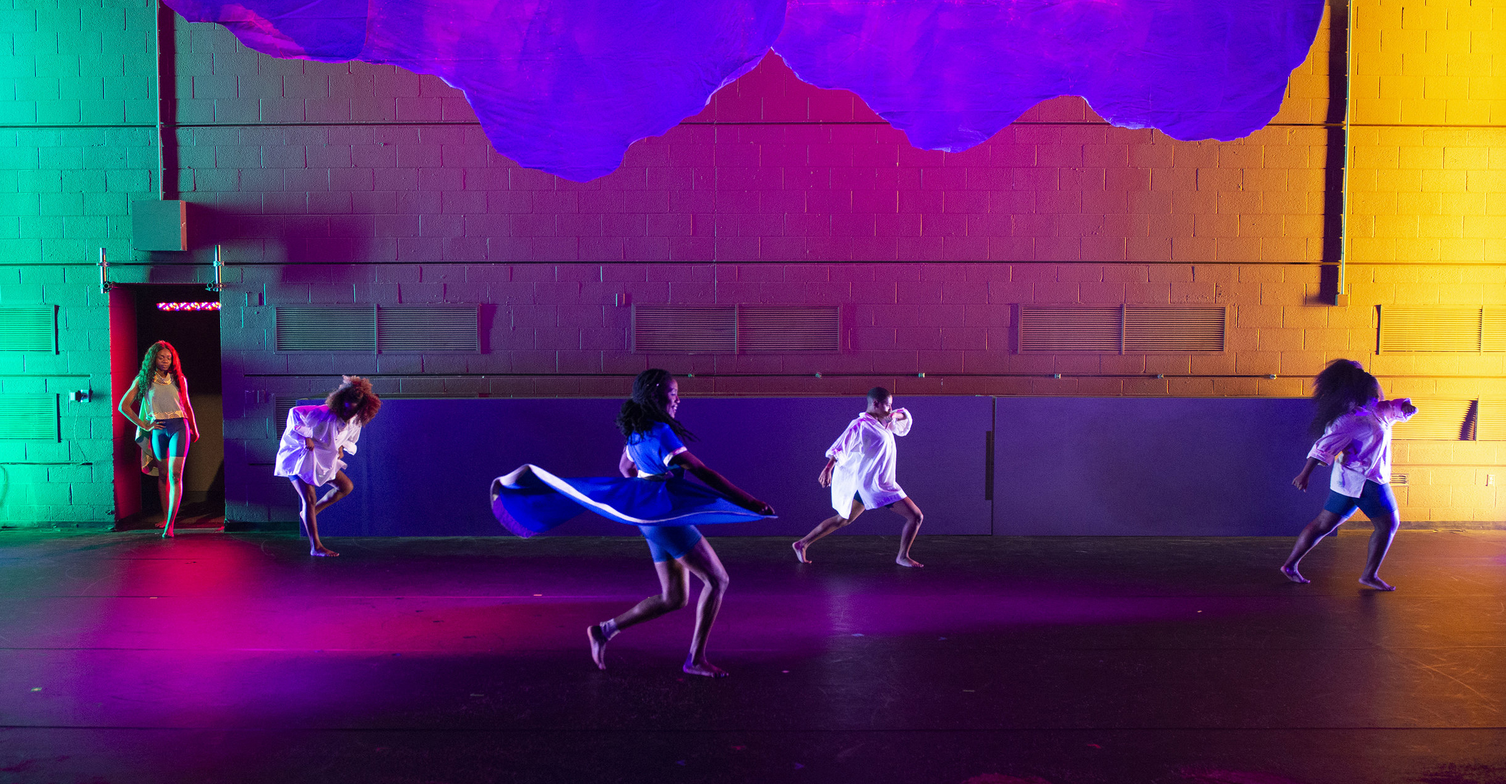
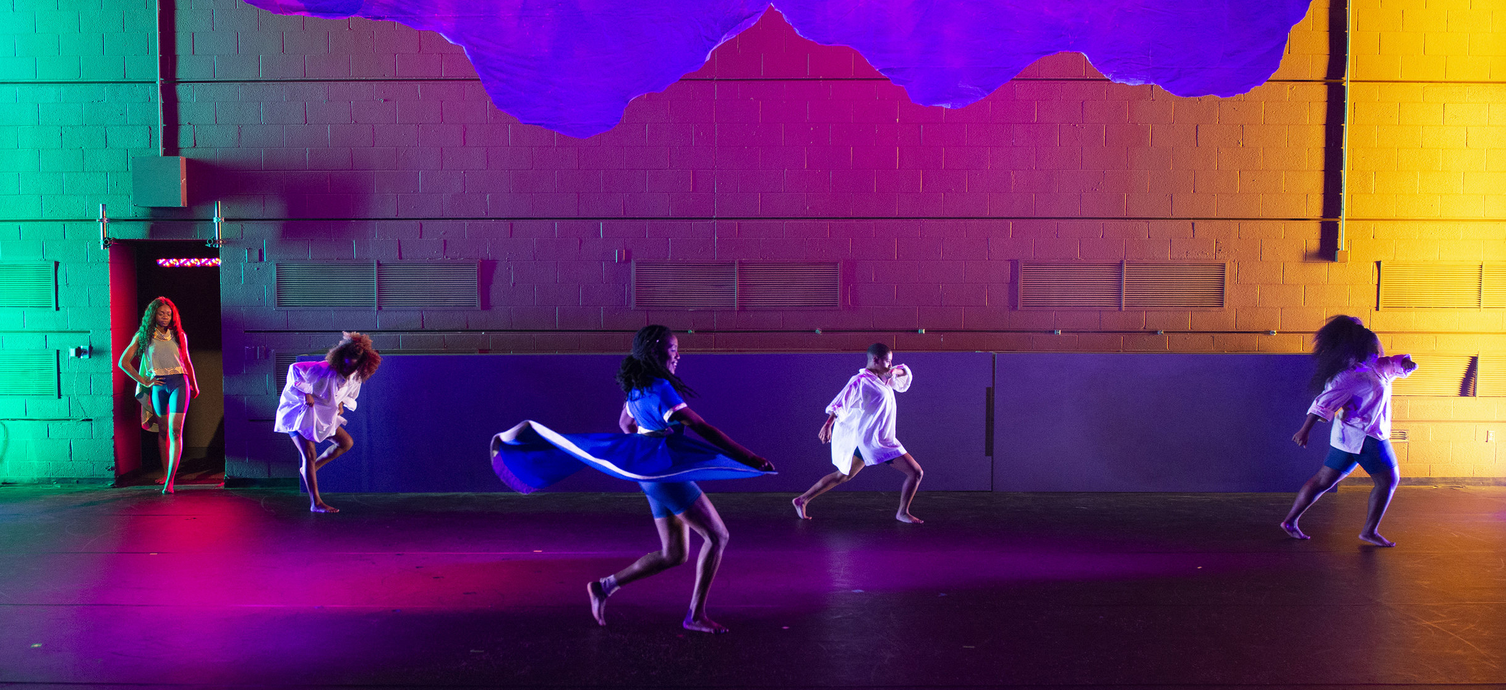
Monday night resume work

diff --git a/resume-project/index.html b/resume-project/index.html
@@ -11,52 +11,43 @@
       <!-- Meta tags that are helpful for search engines -->
       <meta name="David Andrews Resume" content="Merrill College of Journalism, UMD">
       <meta name="David Andrews" content="Photographer Resume">
-    <link href="./style.css" rel="stylesheet">
     <!-- The following link ref for fonts is a hold over from the in-class resume -->
     <link href="https://fonts.googleapis.com/css?family=Open+Sans:400,700&display=swap" rel="stylesheet">
     <link rel="stylesheet" href="https://stackpath.bootstrapcdn.com/bootstrap/4.3.1/css/bootstrap.min.css" integrity="sha384-ggOyR0iXCbMQv3Xipma34MD+dH/1fQ784/j6cY/iJTQUOhcWr7x9JvoRxT2MZw1T" crossorigin="anonymous">
     <link rel="stylesheet" href="https://use.fontawesome.com/releases/v5.7.2/css/all.css" integrity="sha384-fnmOCqbTlWIlj8LyTjo7mOUStjsKC4pOpQbqyi7RrhN7udi9RwhKkMHpvLbHG9Sr" crossorigin="anonymous">
+    <link href="./style.css" rel="stylesheet">
   </head>
   <body>
     <!--Beginning of Nav bar-->
+    <div class="navigationbar">
         <nav class="navbar navbar-expand-lg navbar-light bg-light">
-     <a class="navbar-brand" href="#">Navbar</a>
+     <a class="navbar-brand" href="#">David Andrews</a>
      <button class="navbar-toggler" type="button" data-toggle="collapse" data-target="#navbarSupportedContent" aria-controls="navbarSupportedContent" aria-expanded="false" aria-label="Toggle navigation">
        <span class="navbar-toggler-icon"></span>
      </button>
 
      <div class="collapse navbar-collapse" id="navbarSupportedContent">
        <ul class="navbar-nav mr-auto">
-         <li class="nav-item active">
-           <a class="nav-link" href="#">David Andrews <span class="sr-only">(current)</span></a>
-         </li>
          <li class="nav-item">
            <a class="nav-link" href="#experience">Experience</a>
          </li>
          <li class="nav-item">
-           <a class="nav-link" href="#">Skills</a>
+           <a class="nav-link" href="#skills">Skills</a>
          </li>
          <li class="nav-item">
-           <a class="nav-link" href="#">Services</a>
+           <a class="nav-link" href="#services">Services</a>
          </li>
-         <li class="nav-item dropdown">
-           <a class="nav-link dropdown-toggle" href="#" id="navbarDropdown" role="button" data-toggle="dropdown" aria-haspopup="true" aria-expanded="false">
-             Contact
-           </a>
-           <div class="dropdown-menu" aria-labelledby="navbarDropdown">
-             <div class="dropdown-divider"></div>
-             <a class="dropdown-item" href="#">Email</a>
-             <a class="dropdown-item" href="#">LinkedIn</a>
-             <a class="dropdown-item" href="#">Instagram</a>
-           </div>
+         <li class="nav-item">
+           <a class="nav-link" href="mailto:@dlamedia100@gmail.com">Contact</a>
          </li>
        </ul>
      </div>
     </nav>
+  </div>
     <!--End of Nav bar-->
-
+  <div id="body">
+    <!-- Beginning of body content -->
     <div id="container">
-      <!-- I built this myself! -->
       <i class="fas fa-camera fa-sm"></i>
       <i class="fas fa-camera fa-lg"></i>
       <i class="fas fa-camera fa-2x"></i>
@@ -69,104 +60,180 @@
     <div id="name">David Andrews</div>
     <div id="title">Photo/Video Producer</div>
   </div>
+</div>
+<img src="davidandrews-banner-1600x500.jpg" alt="dancers" class="image">
+<br>
+<br>
+<div id="container">
+</div>
+<div class="section-header" id="experience">
+  <!-- h2 to class="section-header" -->
+  Experience
+</div>
+<div id="body">
+  <br>
+<!--Beginning of Maryland item -->
+  <div class="container">
+        <div class="row">
+                <div class="col-md-6 box">
+                        <h3>University of Maryland</h3>
+                        <div class="date">
+                          January 2019–Current
+                        </div>
+                        <br>
+                        <img src="./logos/umd-globe.png" alt="maryland logo" class="logo">
+                </div>
+                <div class="col-md-6">
+                  <div class="job-title">
+                    Photographer and Video Producer
+                  </div>
+                  <p class="description">
+                    I photograph performances for the University's School of Music, School of Theatre, Dance, and Performance Studies, and the Visiting Artist Series. I also film and produce recruitment and marketing videos for various center partners, while directing lighting and managing scheduling for photoshoots, portraits and headshots. I also develop department video strategy in line with University branding. I am continually strategizing content production needs based on social media trends.
+                  </p>
+                </div>
+        </div>
+</div>
+<br>
+<!--End of Maryland item-->
+<!--Beginning of LIGHT item -->
+  <div class="container">
+        <div class="row">
+                <div class="col-md-6 box">
+                        <h3>Light Labs, Inc.</h3>
+                        <div class="date">
+                          January 2018–September 2018
+                        </div>
+                        <br>
+                        <img src="./logos/light-logo.png" alt="light logo" class="logo">
+                </div>
+                <div class="col-md-6">
+                  <div class="job-title">
+                    Customer Support Specialist, Videographer
+                  </div>
+                  <p class="description">
+                    As the videographer, I developed company video strategy for support and marketing teams, and shot and produced video ad campaigns for various social platforms. I also created instructional tutorial videos to proactively troubleshoot camera support issues. As a customer support specialist, I led customers in best troubleshooting procedures with L16 camera and Lumen editing software, diagnosed problematic images and relayed critical software bugs to developers.
+                  </p>
+                </div>
+        </div>
+</div>
+<br>
+<!--End of LIGHT item-->
+<!--Beginning of SF freelancer item -->
+  <div class="container">
+        <div class="row">
+                <div class="col-md-6 box">
+                        <h3>Various publications around
+                          <br>
+                          San Francisco, Ca.</h3>
+                        <div class="date">
+                          May 2016-September 2018
+                        </div>
+                        <br>
+                        <img src="./logos/sf-weekly-logo.jpg" alt="sf weekly logo" class="logo">
+                </div>
+                <div class="col-md-6">
+                  <div class="job-title">
+                    Video, photo and print journalist
+                  </div>
+                  <p class="description">
+                    PUBLISHED by San Francisco Chronicle, SF Weekly, The Bold Italic, Ripple News, Hoodline, San Francisco, Ca., Catholic San Francisco, The Archdiocese of San Francisco, SF Bay, and The American Legion. As a freelancer, I researched and pitched ideas for compelling videos and articles regarding relevant current events, interviewed subjects on camera with attention to audio, lighting and visuals and arranged interviews into video packages or articles in regards to each publication’s style guide with minimal oversight in a timely manner. Additionally, I photographed events around the city while gathering information to create complete captions for publication.
+                  </p>
+                </div>
+        </div>
+</div>
+<br>
+<!--End of SF FREELANCER item-->
+<!--Beginning of AMPS item -->
+<div class="container">
+        <div class="row">
+                <div class="col-md-6 box">
+                        <h3>Advertising Media Plus, Inc.</h3>
+                        <div class="date">
+                          April 2014-April 2016
+                        </div>
+                        <br>
+                        <img src="./logos/advertisingmediaplus.jpeg" alt="advertising media plus logo" class="logo">
+                </div>
+                <div class="col-md-6">
+                  <div class="job-title">
+                    Videographer, Reporter
+                  </div>
+                  <p class="description">
+                    In my first full-time job after graduating, I filmed, edited and produced videos for various client websites with oversight in lighting and audio. I photographed events and conducted interviews for articles to be published in two tri-annual magazines. I helped to design highly stylized graphic layouts for digital email promotions through Constant Contact, pitched company business to potential clients, offering full comprehension of company services and managed client account website CMS update through WordPress with attention to SEO.
+                  </p>
+                </div>
+        </div>
+</div>
+<br>
+<!--End of AMPS item-->
+<!--Beginning of Balt Sun item -->
+<div class="container">
+        <div class="row">
+                <div class="col-md-6 box">
+                        <h3>The Baltimore Sun</h3>
+                        <div class="date">
+                          August 2014-April 2016
+                        </div>
+                        <br>
+                        <img src="./logos/baltimore-sun-logo.jpg" alt="baltimore sun logo" class="logo">
+                </div>
+                <div class="col-md-6">
+                  <div class="job-title">
+                    Freelance Photographer
+                  </div>
+                  <p class="description">
+                    As a freelancer for the Baltimore Sun, I pitched, developed, shot, edited and wrote independent feature multimedia story ideas that were published on BaltimoreSun.com. I photographed both candid and posed occupants of Baltimore bars to accompany nightlife review articles. I also interviewed subjects to obtain critical information to create accurate and thorough captions. When I edited photos, I cropped and minimally tweaked 20-30 best stills from shoots without compromising image integrity.
+                  </p>
+                </div>
+        </div>
+</div>
+<br>
+<!--End of Balt Sun item-->
+<!--Beginning of LSS item -->
+<div class="container">
+        <div class="row">
+                <div class="col-md-6 box">
+                        <h3>Long Story Short Media</h3>
+                        <div class="date">
+                          February-May 2014
+                        </div>
+                        <br>
+                        <img src="./logos/lss-media-logo.png" alt="long story short media" class="logo">
+                </div>
+                <div class="col-md-6">
+                  <div class="job-title">
+                    Production Intern
+                  </div>
+                  <p class="description">
+                    As a production intern, I produced videos in Adobe Premiere to be distributed to clients and published on LSSMedia.com, Youtube, Vimeo and WordPress. I recorded talent voice-overs and compiled music to be used in final video productions, transcribed interviews and logged footage in CATDV with complete and accurate time codes, keywords and subject names. I assisted with live stream recording and on-location production, and created call sheets and production notes to be used on location and distributed to clients.
+                  </p>
+                </div>
+        </div>
+</div>
+<br>
+<!--End of LSSMedia item-->
 
-    <!-- Beginning of Jumbotron -->
-    <div class="jumbotron">
-    <!--BACKGROUND IMAGE NOT SHOWING -->
-    <hr class="my-4">
-    <p>Humanity through the looking glass.</p>
-    <!-- "Learn More" button -->
-    <a class="btn btn-primary btn-lg" href="#" role="button">Portfolio</a>
-    </div>
-    <!-- End of Jumbotron -->
+<!--Beginning of NEXT item -->
+<!--  <div class="container">
+        <div class="row">
+                <div class="col-md-6">
+                        <h3>PLACE OF WORK</h3>
+                        <div class="date">
+                          Month YEAR–Month YEAR
+                        </div>
+                </div>
+                <div class="col-md-6">
+                  <div class="job-title">
+                    Customer Support Specialist, Videographer
+                  </div>
+                  <p class="description">
+                    This is what I did at this job. yadda yadda yadda
+                  </p>
+                </div>
+        </div>
+</div>
+<!--End of that item-->
 
-  <!-- <img src="daveandrews-headshot-350.jpg" width="300" height="300" alt="David Andrews headshot" /> -->
-  <ul class="menu">
-    <li><a href="mailto:dandrews@umd.edu">dandrews@umd.edu</a><li>
-    <li><a href="https://www.linkedin.com/in/dandrewsphotography">LinkedIn</a></li>
-    <li><a href="https://twitter.com/DAndimonium">Twitter</a></li>
-    <li><a href="https://github.com/dandrewsphoto">GitHub</a></li>
-  </ul>
-  <p class="mission-statement">
-    <!--changed this to mission-statement in a later iteration -->
-    I am the photographer photographer and video producer at The Clarice Smith Performing Arts Center at the University of Maryland. With a background in journalism, I've been a freelance photojournalist for various editorial publications in Baltimore, Md. and most recently in San Francisco, Ca. I've also worked in customer service, and as a video producer for a digital photography start up organization.
-  </p>
-    <div class="section-header" id="experience">
-      <!-- h2 to class="section-header" -->
-      Experience
-    </div>
-    <div class="job-title">
-      Photographer and Video Producer
-    </div>
-    <div class="organization">
-      University of Maryland—Clarice Smith Performing Arts Center
-    </div>
-    <div class="date">
-      January 2019–Current
-    </div>
-    <p class="description">
-      I photograph performances for the University's School of Music, School of Theatre, Dance, and Performance Studies, and the Visiting Artist Series. I also film and produce recruitment and marketing videos for various center partners, while directing lighting and managing scheduling for photoshoots, portraits and headshots. I also develop department video strategy in line with University branding. I am continually strategizing content production needs based on social media trends.
-    </p>
-    <div class="job-title">
-      Contract Customer Support Specialist, Videographer
-    </div>
-    <div class="organization">
-      Light Labs, Inc.— Digital photography company
-    </div>
-    <div class="date">
-      January 2018–September 2018
-    </div>
-    <p class="description">
-      As the videographer, I developed company video strategy for support and marketing teams, and shot and produced video ad campaigns for various social platforms. I also created instructional tutorial videos to proactively troubleshoot camera support issues. As a customer support specialist, I led customers in best troubleshooting procedures with L16 camera and Lumen editing software, diagnosed problematic images and relayed critical software bugs to developers.
-    </p>
-    <div class="job-title">
-      Video, photo and print journalist
-    </div>
-    <div class="organization">
-      Various publications around San Francisco, Ca.
-    </div>
-    <div class="date">
-      May 2016-September 2018
-    </div>
-    <p class="description">
-      PUBLISHED by San Francisco Chronicle, SF Weekly, The Bold Italic, Ripple News, Hoodline, San Francisco, Ca., Catholic San Francisco, The Archdiocese of San Francisco, SF Bay, and The American Legion. As a freelancer, I researched and pitched ideas for compelling videos and articles regarding relevant current events, interviewed subjects on camera with attention to audio, lighting and visuals and arranged interviews into video packages or articles in regards to each publication’s style guide with minimal oversight in a timely manner. Additionally, I photographed events around the city while gathering information to create complete captions for publication.
-    </p>
-    <div class="job-title">
-      Videographer, Reporter
-    </div>
-    <div class="organization">
-      Advertising Media Plus, Inc.— Communications, media and publishing agency
-    </div>
-    <div class="date">
-      April 2014-April 2016
-    </div>
-    <p class="description">
-      In my first full-time job after graduating, I filmed, edited and produced videos for various client websites with oversight in lighting and audio. I photographed events and conducted interviews for articles to be published in two tri-annual magazines. I helped to design highly stylized graphic layouts for digital email promotions through Constant Contact, pitched company business to potential clients, offering full comprehension of company services and managed client account website CMS update through WordPress with attention to SEO.
-    </p>
-    <div class="job-title">
-      Freelance Photographer
-    </div>
-    <div class="organization">
-      The Baltimore Sun — Daily online and print publication by Tribune Company
-    </div>
-    <div class="date">
-      August 2014-April 2016
-    </div>
-    <p class="description">
-      As a freelancer for the Baltimore Sun, I pitched, developed, shot, edited and wrote independent feature multimedia story ideas that were published on BaltimoreSun.com. I photographed both candid and posed occupants of Baltimore bars to accompany nightlife review articles. I also interviewed subjects to obtain critical information to create accurate and thorough captions. When I edited photos, I cropped and minimally tweaked 20-30 best stills from shoots without compromising image integrity.
-    </p>
-    <div class="job-title">
-      Production Intern
-    </div>
-    <div class="organization">
-      Long Story Short Media — Media production and consultant firm
-    </div>
-    <div class="date">
-      February-May 2014
-    </div>
-    <p class="description">
-      As a production intern, I produced videos in Adobe Premiere to be distributed to clients and published on LSSMedia.com, Youtube, Vimeo and WordPress. I recorded talent voice-overs and compiled music to be used in final video productions, transcribed interviews and logged footage in CATDV with complete and accurate time codes, keywords and subject names. I assisted with live stream recording and on-location production, and created call sheets and production notes to be used on location and distributed to clients.
-    </p>
     <div class="section-header">
       <!-- h2 to class="section-header" -->
       Education
@@ -191,5 +258,16 @@
       <li>Experienced utilizing social media to propagate content</li>
     </ul>
   </div>
+</div>
+
+<!-- Beginning of footer jumbotron-->
+<!-- Beginning of Jumbotron -->
+<div class="jumbotron">
+<hr class="my-4">
+<p>See more at <a href="https://www.dandrewsphotography.com/" target="_blank">DAndrewsPhotography.com</a>.</p>
+<p>All Rights Reserved.</p>
+</div>
+<!-- End of Jumbotron -->
+
   </body>
 </html>

diff --git a/resume-project/style.css b/resume-project/style.css
@@ -32,8 +32,7 @@ li {
   }
 
   .jumbotron {
-    background-image: url("davidandrews-banner-3000.jpg" width="3000" height="300" alt="dancers banner")
-    background-size: cover;
+
   }
 
 #title {
@@ -118,5 +117,28 @@ li {
   width: 100%;
   max-width: 960px;
   margin: 0 auto;
-  padding-bottom: 50px;
+  padding-bottom: 10px;
+}
+
+#body {
+  margin: 0 auto;
+  max-width: 1000px;
+}
+
+.navigationbar {
+  position: relative;
+}
+
+.image {
+  width: 100%;
+  height: auto;
+}
+
+.box {
+  border-right: 5px solid #33485e;
+}
+
+.logo {
+  width: 100px;
+  height: auto;
 }
